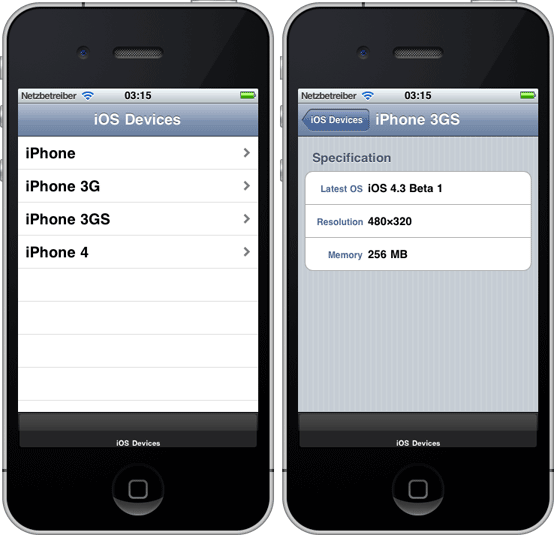
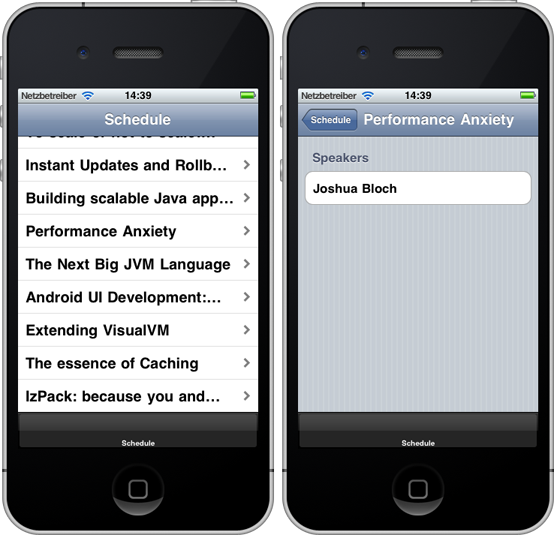
used conference example for overview docs [#11]

diff --git a/css/page.css b/css/page.css
@@ -19,3 +19,7 @@ pre {
 h2 {
 	margin-top:2em;
 }
+
+img {
+	max-width:750px;
+}

diff --git a/index.md b/index.md
@@ -9,7 +9,7 @@ layout: default
 
 # iApplause
 
-iApplause is a runtime framework accompanied by a DSL for developing data-centric iPhone applications. It is an iPhone-only version of the [Applause](http://code.google.com/p/applause/) Xtext DSL, extended and very much customized to suit my own needs.
+iApplause is a runtime framework accompanied by a DSL for developing data-centric iPhone applications. It is an iPhone-only version of the [Applause](http://code.google.com/p/applause/) Xtext DSL, extended and very much customized to my own needs.
 
 ## Overview
 
@@ -25,46 +25,50 @@ This application can be generated from [`demo.applause`](https://github.com/ralf
 
 	type String mapsTo "NSString"
 
-	entity Device {
-		String name
-		String latest_os
-		String resolution
-		String memory
+	entity Speaker {
+		String speaker
+		String speakerUri
 	}
 
-	contentprovider AllDevices
-		returns Device[]
-		fetches JSON from "http://ralfebert.github.com/iApplause/demo/devices.json"
+	entity Presentation {
+		String title
+		Speaker[] speakers
+	}
+
+	contentprovider AllPresentations
+		returns Presentation[]
+		fetches JSON from "http://cfp.devoxx.com/rest/v1/events/1/presentations"
 		selects ""
 
 	tabview Tabs {
 		tab {
-			title: "Devices"
-			view: DeviceList()
+			title: "Schedule"
+			view: Schedule()
 		}
 	}
 
-	tableview DeviceList {
-		Device[] devices = AllDevices()
+	tableview Schedule {
+		Presentation[] allPresentations = AllPresentations()
 
-		title: "iOS Devices"
+		title: "Schedule"
 		section {
-			cell Default foreach devices as device {
-				text: device.name
+			cell Default foreach allPresentations as presentation {
+				text: presentation.title
 				accessory: Link
-				action: DeviceView(device)
+				action: PresentationDetails(presentation)
 			}
 		}
 	}
 
-	tableview DeviceView(Device device) {
-		title: device.name
+	tableview PresentationDetails(Presentation presentation) {
+		title: presentation.title
 		style: Grouped
+
 		section {
-			title: "Specification"
-			cell Value2 { text:"Latest OS" details:device.latest_os }
-			cell Value2 { text:"Resolution" details:device.resolution }
-			cell Value2 { text:"Memory" details:device.memory }
+			title:"Speakers"
+			cell Default foreach presentation.speakers as speaker {
+				text: speaker.speaker
+			}
 		}
 	}
 
@@ -78,7 +82,7 @@ And there is a code generator which generates iPhone applications from such DSL 
 
 The project currently is very much work in progress and therefore not very well documented; you will find loose ends and corners. You'll only get something out of it if you're seriously into Xtext DSLs and iPhone development with Objective C.
 
-It works great for my own projects and I'm standing on the shoulders of giants here; I would never have taken that road without the Xtext project and the Applause code being open source; both very much spurred my interest in using DSL languages for my day-to-day development work. I'm making my own enhancements open source as well to ease collaboration with other developers on the same road.
+It works great for my own projects and I'm standing on the shoulders of giants here; I would never have taken that road without the Xtext project and the Applause code being open source; both very much spurred my interest in using DSL languages for my day-to-day development work. I'm making my own enhancements open source to ease collaboration with other developers on the same road.
 
 ## Getting started
 
